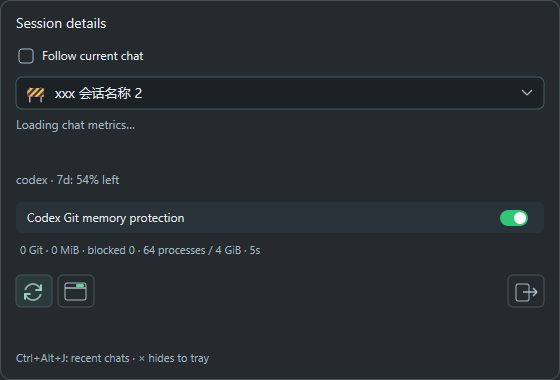
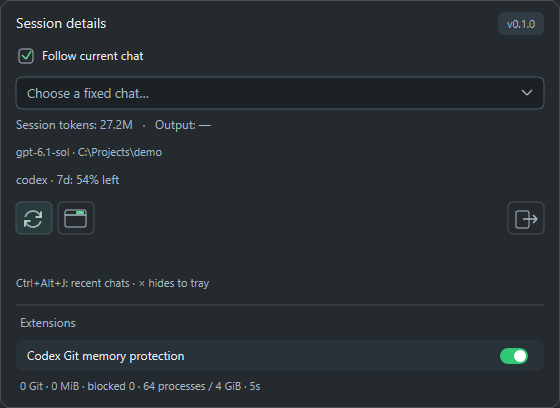
ui: show version and group Git protection under extensions

diff --git a/src/ui.rs b/src/ui.rs
@@ -46,6 +46,7 @@ const TEXT: u32 = 0xe8eef2;
 const MUTED: u32 = 0xa8b8c4;
 const ORANGE: u32 = 0xf5a34b;
 const GREEN: u32 = 0x65d69b;
+const DETAILS_HEIGHT: i32 = 408;
 thread_local! {static APP:RefCell<Option<App>>=const{RefCell::new(None)};}
 fn wide(text: &str) -> Vec<u16> {
     text.encode_utf16().chain(Some(0)).collect()
@@ -1437,6 +1438,17 @@ impl App {
                     TEXT,
                     false,
                 );
+                let version = concat!("v", env!("CARGO_PKG_VERSION"));
+                let version_width = p.width(version, 11.) + 18.;
+                let version_x = width - 16. - version_width;
+                p.fill(rect(version_x, 12., version_width, 23.), 0x303b43, 6.);
+                p.label(
+                    version,
+                    rect(version_x + 9., 12., version_width - 18., 23.),
+                    11.,
+                    MUTED,
+                    false,
+                );
                 area(Hit::Follow, rect(16., 42., width - 32., 27.));
                 p.border(rect(19., 49., 14., 14.), MUTED, 3.);
                 if live.auto_thread {
@@ -1503,44 +1515,21 @@ impl App {
                         .join("   ")
                 };
                 p.label(&quota, rect(16., 167., width - 32., 25.), 12., MUTED, false);
-                let guard_row = rect(16., 202., width - 32., 31.);
-                p.fill(guard_row, 0x293238, 6.);
-                area(Hit::Guard, guard_row);
-                p.label(
-                    "Codex Git memory protection",
-                    rect(27., 202., width - 100., 31.),
-                    12.,
-                    TEXT,
-                    false,
-                );
-                p.toggle(width - 60., 210., live.guard.enabled);
-                p.label(
-                    &format!(
-                        "{} · {} processes / {:.0} GiB · 5s",
-                        live.guard.note,
-                        live.guard.max_processes,
-                        live.guard.max_private_mib as f64 / 1024.
-                    ),
-                    rect(20., 235., width - 40., 29.),
-                    11.,
-                    if live.guard.available { MUTED } else { ORANGE },
-                    false,
-                );
                 for (hit, x) in [
                     (Hit::Refresh, 16.),
                     (Hit::Dock, 58.),
                     (Hit::Quit, width - 52.),
                 ] {
                     if hit == Hit::Refresh {
-                        p.fill(rect(x, 275., 36., 32.), 0x2b3a3c, 5.);
+                        p.fill(rect(x, 202., 36., 32.), 0x2b3a3c, 5.);
                     }
-                    area(hit.clone(), rect(x, 275., 36., 32.));
-                    p.border(rect(x, 275., 36., 32.), 0x47535b, 5.);
-                    p.action_icon(&hit, x + 6., 281.);
+                    area(hit.clone(), rect(x, 202., 36., 32.));
+                    p.border(rect(x, 202., 36., 32.), 0x47535b, 5.);
+                    p.action_icon(&hit, x + 6., 208.);
                 }
                 p.label(
                     &live.action_note,
-                    rect(16., 312., width - 32., 28.),
+                    rect(16., 239., width - 32., 25.),
                     11.,
                     if live.action_note.starts_with("Action failed") {
                         0xf87171
@@ -1551,9 +1540,40 @@ impl App {
                 );
                 p.label(
                     "Ctrl+Alt+J: recent chats · × hides to tray",
-                    rect(16., 345., width - 32., 25.),
+                    rect(16., 270., width - 32., 25.),
                     11.,
                     MUTED,
+                    false,
+                );
+                p.line(16., 305., width - 16., 305., 0x3b484f, 1.);
+                p.label(
+                    "Extensions",
+                    rect(20., 310., width - 40., 25.),
+                    12.,
+                    MUTED,
+                    false,
+                );
+                let guard_row = rect(16., 340., width - 32., 31.);
+                p.fill(guard_row, 0x293238, 6.);
+                area(Hit::Guard, guard_row);
+                p.label(
+                    "Codex Git memory protection",
+                    rect(27., 340., width - 100., 31.),
+                    12.,
+                    TEXT,
+                    false,
+                );
+                p.toggle(width - 60., 348., live.guard.enabled);
+                p.label(
+                    &format!(
+                        "{} · {} processes / {:.0} GiB · 5s",
+                        live.guard.note,
+                        live.guard.max_processes,
+                        live.guard.max_private_mib as f64 / 1024.
+                    ),
+                    rect(20., 373., width - 40., 25.),
+                    11.,
+                    if live.guard.available { MUTED } else { ORANGE },
                     false,
                 );
             }
@@ -2310,7 +2330,7 @@ impl App {
                 [560, 436]
             }
             Popup::Icons => [384, 450],
-            Popup::Details => [560, 380],
+            Popup::Details => [560, DETAILS_HEIGHT],
             Popup::Fixed => [560, 500],
         };
         if kind == Popup::Icons {
@@ -3789,7 +3809,7 @@ pub fn self_test(paths: &Paths) -> Result<()> {
             &app,
             Some(Popup::Details),
             560,
-            380,
+            DETAILS_HEIGHT as u32,
             &paths.runtime.join("rust-details-verification.png")
         )?
         .iter()
@@ -3858,8 +3878,8 @@ pub fn self_test(paths: &Paths) -> Result<()> {
             &app,
             Some(Popup::Details),
             560,
-            380,
-            &paths.runtime.join("rust-details-verification.png"),
+            DETAILS_HEIGHT as u32,
+            &paths.runtime.join("rust-details-fixed-verification.png"),
         )?;
         *state.lock().unwrap() = before;
         let _ = app.hit(Hit::Icon);

diff --git a/README.md b/README.md
@@ -63,11 +63,13 @@
 
 ![会话详情中的默认开启防护开关](assets/images/preview-protection.png)
 
-打开 **Session details**，可直接开关 **Codex Git memory protection**。默认开启，每 **5 秒**检查一次，预设 **64 个进程 / 合计 4 GiB**，无需填写参数。
+打开 **Session details**，右上角显示当前运行版本；最下方的 **Extensions（扩展）** 区域集中放置附加功能，其中的 **Codex Git memory protection** 默认开启。每 **5 秒**检查一次，预设 **64 个进程 / 合计 4 GiB**，无需填写参数。
 
 防护由独立的 Memory Watch 伴随程序执行。超限时弹出警告、记录原因，并自动结束已验证由 Codex 启动的异常 Git 查询进程；提交、推送等写操作及归属不明的进程会跳过。后端未启动或状态失联时明确提示，不会显示为已生效。
 
 普通内存日志仍每 30 秒采样，暂停记录也会继续防护。[查看防护范围与日志](companion/memory-watch/README.md)。这项功能包含在当前源码构建及后续发布包中，已发布的 `v0.1.0` 下载包不包含此项。
+
+当前的状态、耗时和 Token 用于观察运行情况，不代表任务完成百分比。Codex 的计划步骤状态仅在代理提供结构化计划时可用，不能据此可靠预测整个任务的剩余时间。
 
 ## 快速开始
 

diff --git a/CHANGELOG.md b/CHANGELOG.md
@@ -1,5 +1,11 @@
 # 更新说明
 
+## 未发布 · 版本与扩展区域
+
+- Session details 右上角显示当前程序版本，与构建版本自动保持一致。
+- Codex Git 防护移至面板最下方的 Extensions 扩展区，保留默认开关、后端状态、阈值与 5 秒检查提示。
+- 会话跟随、用量、刷新、停靠及退出仍集中在上方，附加功能与会话操作分区展示。
+
 ## 未发布 · Codex Git 内存防护
 
 - Session details 增加默认开启的防护开关及后端状态；无需填写参数，预设 64 个进程 / 合计 4 GiB，每 5 秒检查一次。
